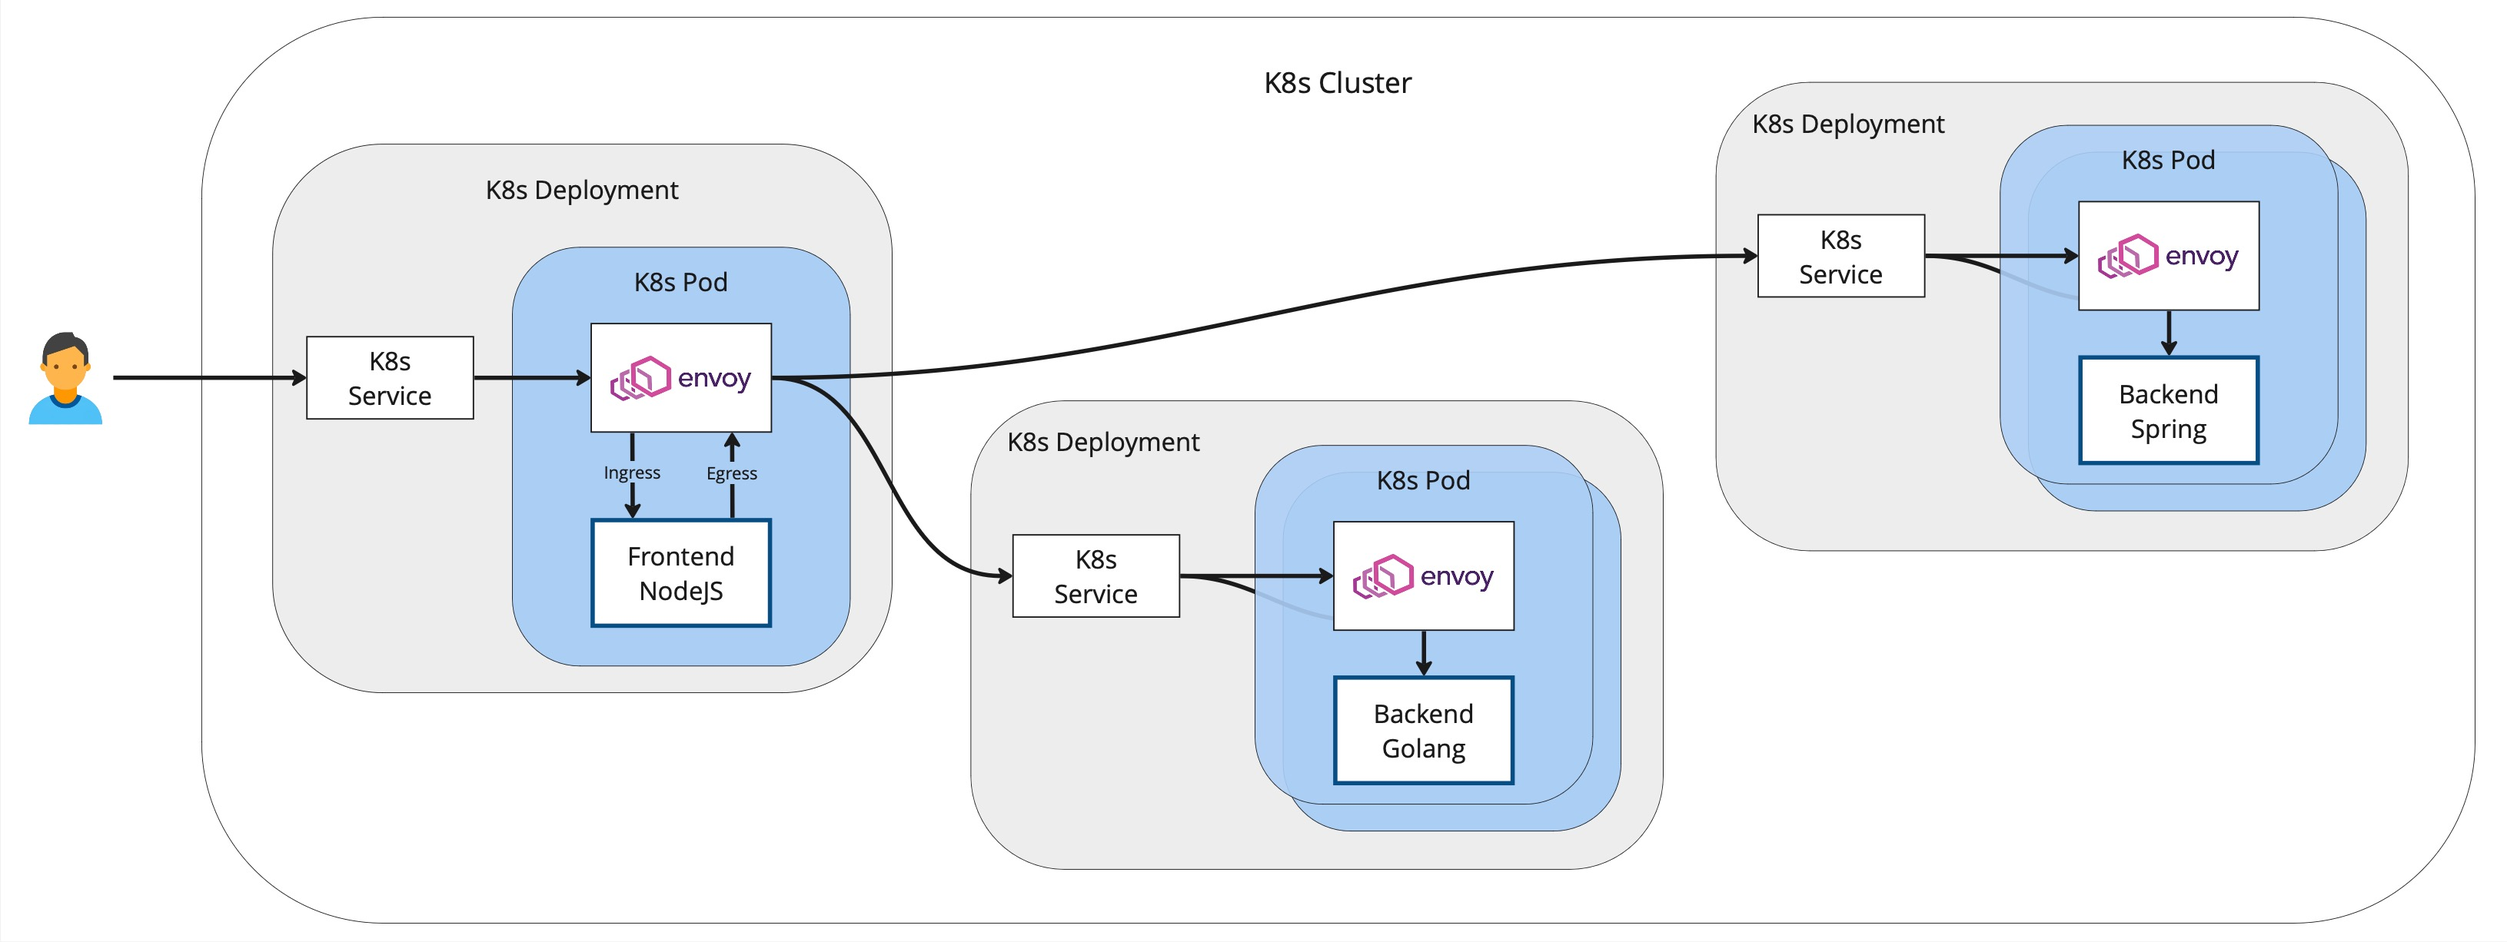
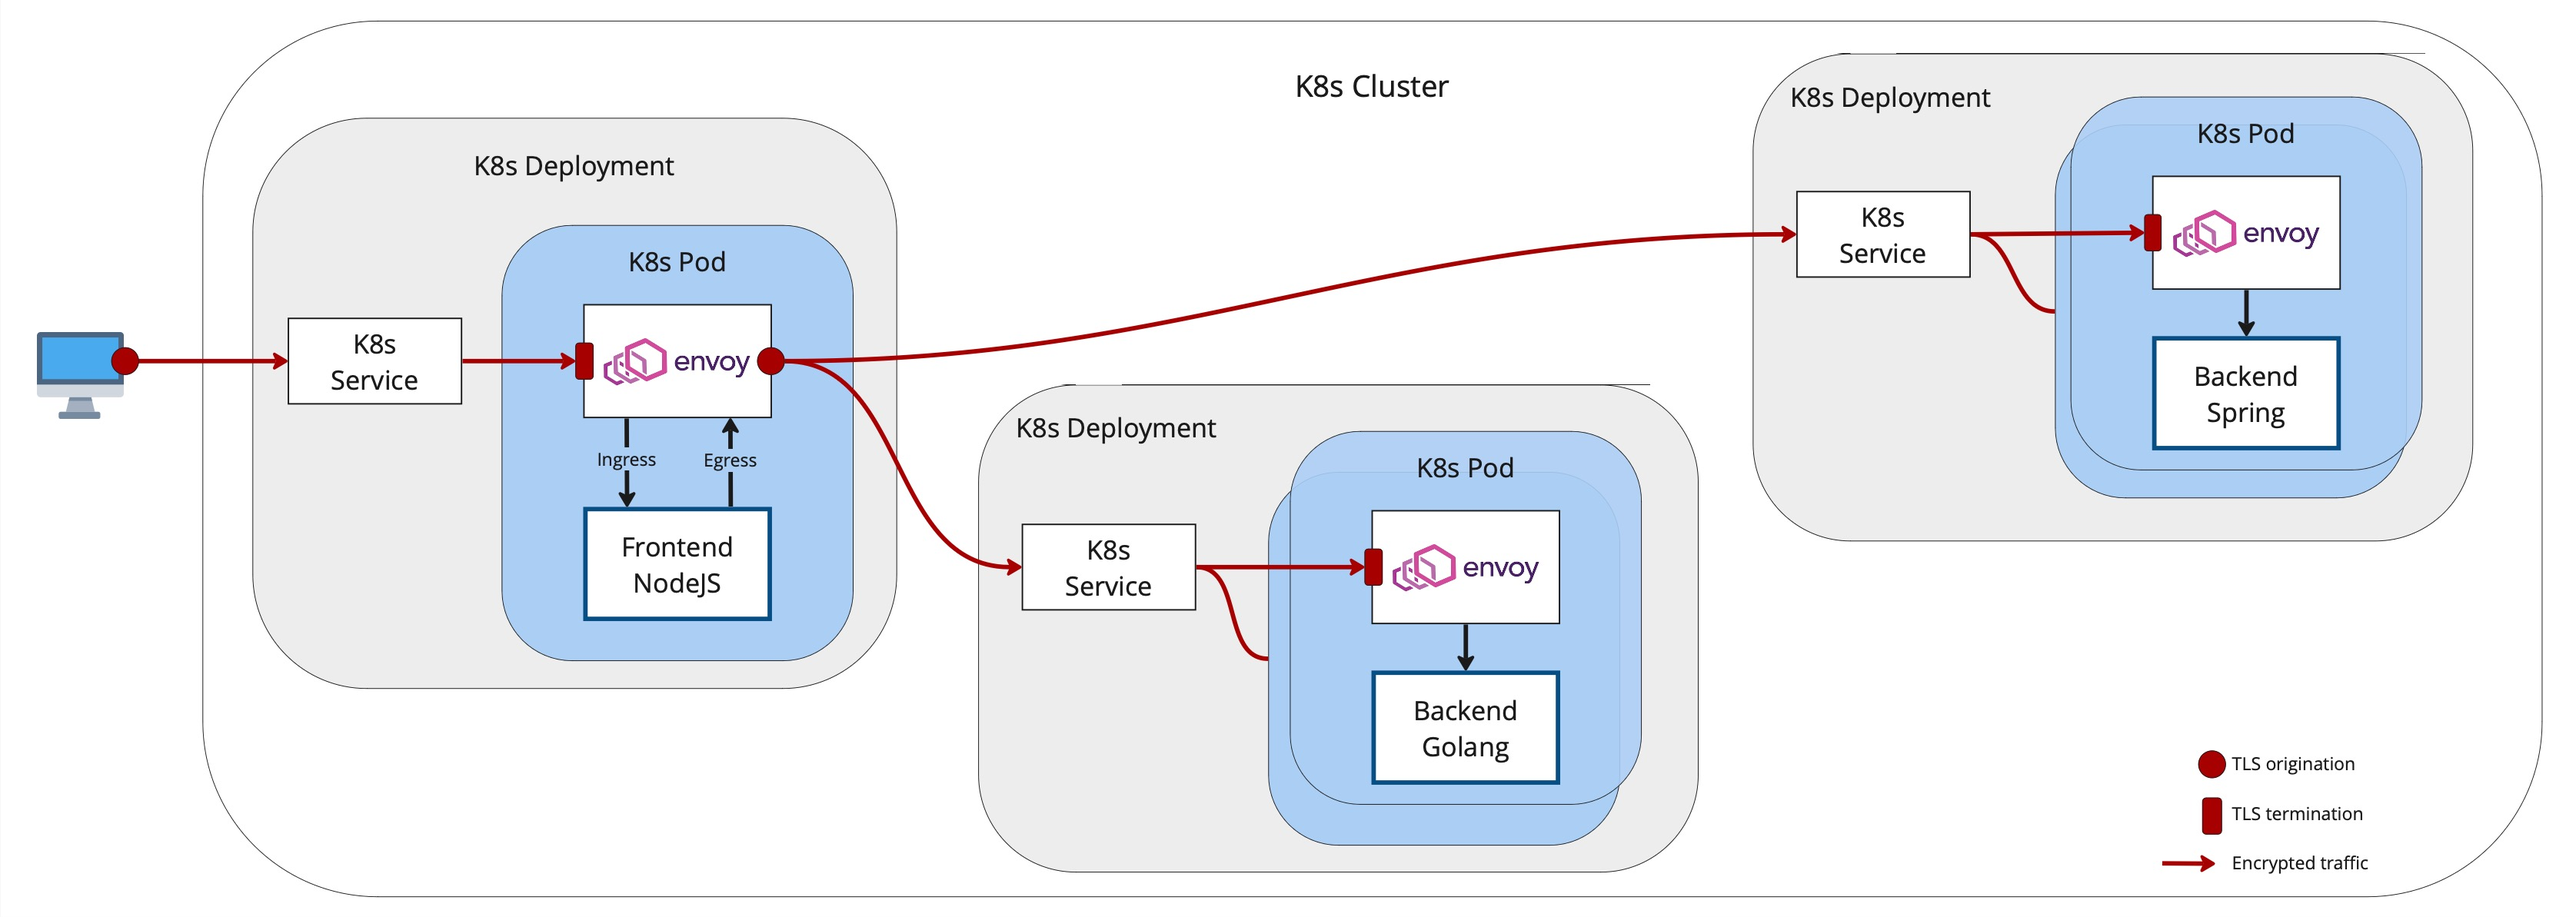
Documented TLS setup

diff --git a/README.md b/README.md
@@ -4,7 +4,12 @@ This is a clone of https://github.com/mouton0815/hello-kubernetes with the diffe
 [Envoy](https://www.envoyproxy.io) sidecar.
 
 Sidecar and application reside in the same Kubernetes Pod.
-The sidecar proxies incoming HTTP traffic and acts as router for outgoing traffic.
+The sidecar proxies incoming traffic and acts as router for outgoing traffic.
+
+All sidecar proxies terminate incoming TLS connections and use HTTP for communication with their main application.
+The frontend sidecar proxy additionally originates TLS encryption for the communication with the two backend services.
+That way, all traffic outside K8s, and all traffic between Pods is encrypted. Only the traffic within a Pod uses plain HTTP. 
+
 
 ![Envoy Sidecar](envoy-sidecar.jpg "Envoy sidecar")
 
